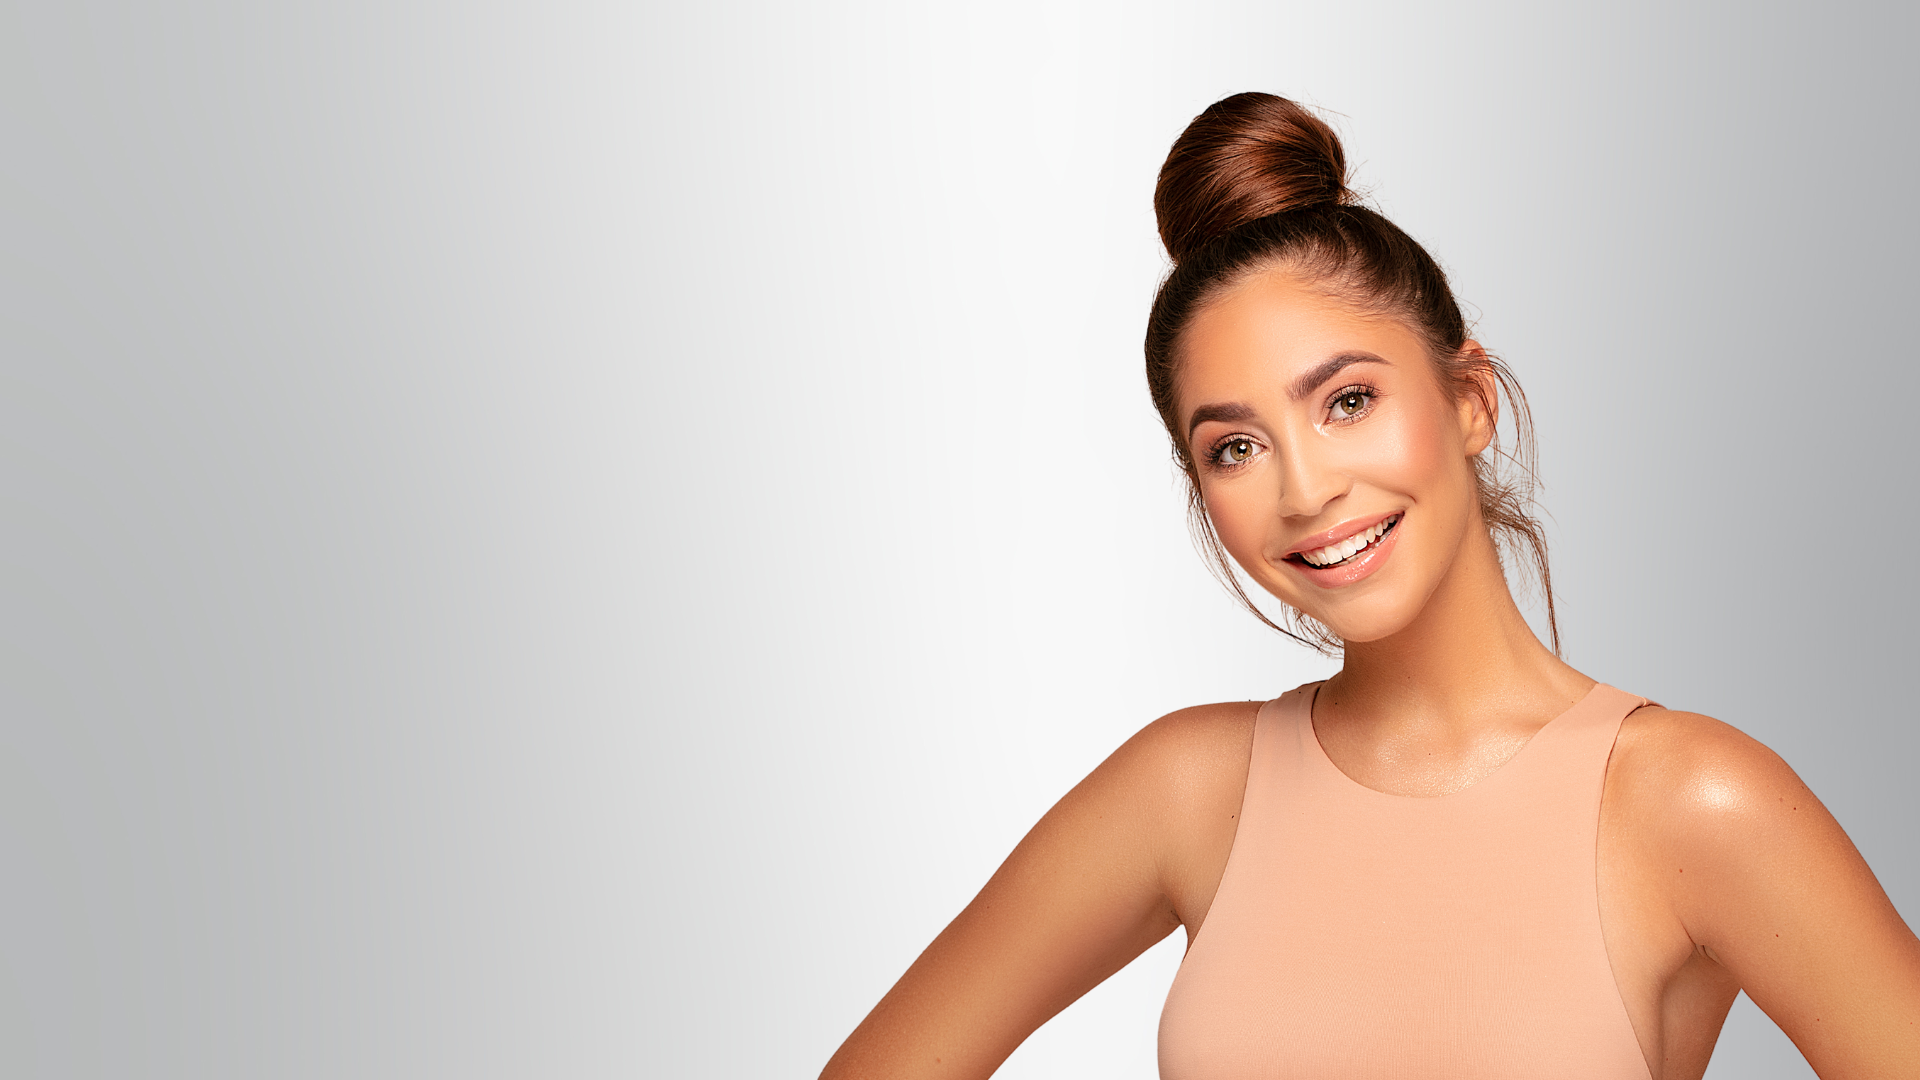
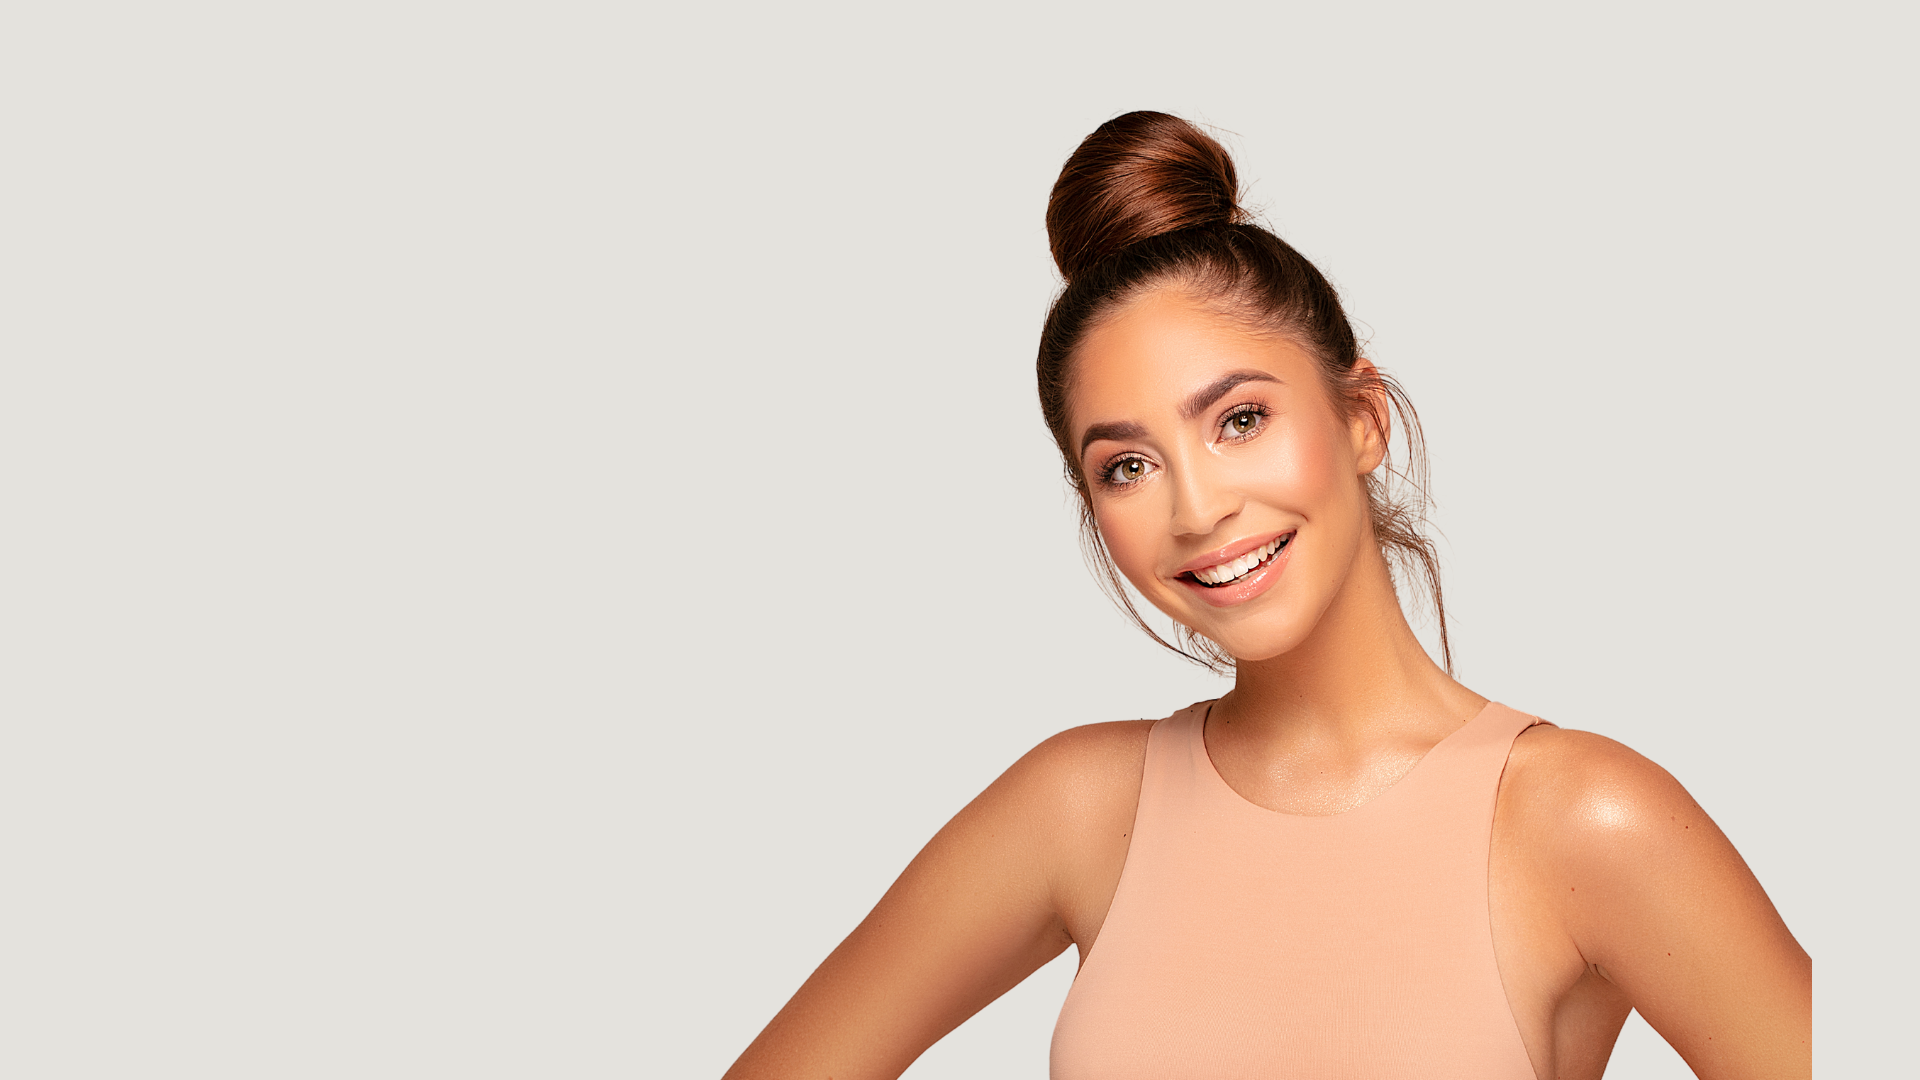
photo added

diff --git a/index.html b/index.html
@@ -53,11 +53,11 @@
       </nav>
 
   <div id ="header">
-    <img src = "images/2.png">
+    <img src = "images/backgroundimage.png">
                 <div class ="header-text first-page">
-                <h1>WELCOME</h1>
+                <h1>WELCOME to <br>AgeFix</h1>
 <br>
-                     <h3>to AgeFix ....your heaven for rejuvenation and timeless beauty.
+                     <h3>Your heaven for rejuvenation and timeless beauty.
                       <br> At our aesthetic sanctuary, we blend artistry with expertise to bring
                      <br> you personalized Anti Wrinkle Injections  and Skin Booster treatments.
                       <br> Step into a realm where your natural radiance is our priority.
@@ -69,8 +69,8 @@
   </div>
 
   <div class ="header-punchline">
-    <h3>AgeFix ....your heaven for rejuvenation and timeless beauty.
-      <br> At our aesthetic sanctuary, we blend artistry with expertise to bring you personalized Anti Wrinkle Injections  and Skin Booster treatments.
+    <h3>Your heaven for rejuvenation and timeless beauty.
+      <!-- <br> At our aesthetic sanctuary, we blend artistry with expertise to bring you personalized treatments. -->
       <br> Step into a realm where your natural radiance is our priority.
       <br> Explore our transformative services designed to enhance your beauty and elevate your confidence.
       <br>Trust us to unveil your timeless allure.

diff --git a/face.html b/face.html
@@ -293,7 +293,7 @@ s
             <div class = "column"style="background-color:white">
               <h1>Microneedling</h1>
               <br>
-              <p>Also known as collagen induction therapy, is a cosmetic procedure that involves creating tiny punctures in the top layer of the skin using fine needles. This process triggers the body's natural wound healing processes, resulting in cell turnover and increased collagen and elastin production.</p>
+              <p>Collagen induction therapy creates tiny skin punctures with needles, triggering natural healing, cell turnover, and boosting collagen production.</p>
               <br>
               <br>
               <a href = "Miscroneedling.html">Explore Treatment</a>
@@ -301,13 +301,12 @@ s
             </div>
             <div class = "column">
               <h2>Benefits</h2><br>
-
-
               <li><span>&#10003; </span>Reduces the appearance of fine lines and wrinkles.</li>
               <li><span>&#10003; </span>Improves skin texture and reduces pore size.</li>
               <li><span>&#10003; </span>Helps in the reduction of scars and hyperpigmentation.</li>
               <li><span>&#10003; </span>Enhances skin firmness and elasticity.</li>
              </div>
+          </div>
           </div>
         <div class = "buttonup">
           <a href="#header"><i class="fa-solid fa-angles-up"></i></a>

diff --git a/Miscroneedling.html b/Miscroneedling.html
@@ -255,7 +255,7 @@ margin-left: 10px;
    </div>
   </nav>
 <div id ="header">
-  <img src ="images/antiwrinckle.png">
+  <img src ="images/micronedeling.png">
   <div class ="header-text">
   <h1>Microneedling </h1>
   <h1>Treatment</h1>
@@ -263,8 +263,7 @@ margin-left: 10px;
 </div>
 
 <div class = "punchline">
-  <h2>Microneedling, also known as collagen induction therapy,
-    is a minimally invasive skin rejuvenation procedure. It involves the use of a device equipped with fine needles to create tiny punctures on the top layer of the skin. This process triggers the body's natural wound healing processes, resulting in cell turnover and increased collagen and elastin production. These effects can lead to firmer, smoother, and more toned skin.
+  <h2>Collagen induction therapy creates tiny skin punctures with needles, triggering natural healing, cell turnover, and boosting collagen production.
   </h2>
 </div>
 

diff --git a/hair Loss.html b/hair Loss.html
@@ -254,7 +254,7 @@ padding:10px;
    </div>
   </nav>
 <div id ="header">
-  <img src ="images/antiwrinckle.png">
+  <img src ="images/hairderma.png">
   <div class ="header-text">
   <h1>Hair Loss Dermapen</h1>
   <h1>Treatment</h1>
@@ -406,6 +406,7 @@ the exposed skin, using products like COVER RECOVER™ CLEAR or SHEER.
 
 
 <div class ="priceinfo">
+  <br>
 <p>Prices subject to change due to quantity of serum used</p>
 <p>*See Terms & conditions for more details</p>
 </div>
@@ -417,9 +418,9 @@ the exposed skin, using products like COVER RECOVER™ CLEAR or SHEER.
 </div>
 
 
-<div class ="photo-areas">
+<!-- <div class ="photo-areas">
   <img src ="images/Botoxareas.png">
-</div>
+</div> -->
 
 
 <script>

diff --git a/Profilo.html b/Profilo.html
@@ -205,19 +205,20 @@ select {
 
 
 .column-tretment{
-padding:10px;
+padding:0px;
 }
 
 #tretment-sumary {
-    margin-left: 5%;
-    margin-right: 5%;
+    margin-left: 2px;
+    margin-right: 2px;
   }
+
   .column-tretment {
     padding: 10px;
   }
 
   .table-container  h2{
-margin-left: 10px;
+      margin-left: 10px;
       font-size: 25px;
     }
 
@@ -256,7 +257,7 @@ margin-left: 10px;
    </div>
   </nav>
 <div id ="header">
-  <img src ="images/antiwrinckle.png">
+  <img src ="images/profiloface.png">
   <div class ="header-text">
     <h1>Profhilo &reg; </h1>
     <h1>5 Point Face Lift</h1>

diff --git a/PRPface.html b/PRPface.html
@@ -254,7 +254,7 @@ padding:10px;
    </div>
   </nav>
 <div id ="header">
-  <img src ="images/antiwrinckle.png">
+  <img src ="images/Vampire facial.png">
   <div class ="header-text">
   <h1>PRP (Platelet-Rich Plasma) Vampire Facial</h1>
   <h1>Treatment</h1>
@@ -513,9 +513,9 @@ At AgeFix, we invite you to explore the natural, powerful effects of PRP Therapy
 </div>
 
 
-<div class ="photo-areas">
+<!-- <div class ="photo-areas">
   <img src ="images/Botoxareas.png">
-</div>
+</div> -->
 
 
 <script>

diff --git a/Strech Marks Dermapen.html b/Strech Marks Dermapen.html
@@ -254,7 +254,7 @@ padding:10px;
    </div>
   </nav>
 <div id ="header">
-  <img src ="images/antiwrinckle.png">
+  <img src ="images/streckmarks.png">
   <div class ="header-text">
   <h1>Strech Marks</h1>
   <h1>DERMAPEN</h1>
@@ -427,9 +427,9 @@ For optimal results:, we recommend using the Dermapen HOME™ for safe, at-home 
 </div>
 
 
-<div class ="photo-areas">
+<!-- <div class ="photo-areas">
   <img src ="images/Botoxareas.png">
-</div>
+</div> -->
 
 
 <script>

diff --git a/Hands Rejuvenation .html b/Hands Rejuvenation .html
@@ -254,7 +254,7 @@ padding:10px;
    </div>
   </nav>
 <div id ="header">
-  <img src ="images/antiwrinckle.png">
+  <img src ="images/hands.png">
   <div class ="header-text">
   <h1>Hands Rejuvenation  booster Profhilo®</h1>
   <h1>Treatment</h1>
@@ -401,9 +401,9 @@ padding:10px;
 </div>
 
 
-<div class ="photo-areas">
+<!-- <!-- <div class ="photo-areas">
   <img src ="images/Botoxareas.png">
-</div>
+</div> --> -->
 
 
 <script>

diff --git a/BunnyLines.html b/BunnyLines.html
@@ -254,7 +254,7 @@ padding:10px;
    </div>
   </nav>
 <div id ="header">
-  <img src ="images/antiwrinckle.png">
+  <img src ="images/bunny1.png">
   <div class ="header-text">
   <h1>Bunny Lines</h1>
   <h1>Treatment</h1>
@@ -442,9 +442,9 @@ padding:10px;
 </div>
 
 
-<div class ="photo-areas">
-  <img src ="images/Botoxareas.png">
-</div>
+<!-- <div class ="photo-areas">
+  <img src ="images/bunny2.png">
+</div> -->
 
 
 <script>

diff --git a/Masseter.html b/Masseter.html
@@ -254,7 +254,7 @@ padding:10px;
    </div>
   </nav>
 <div id ="header">
-  <img src ="images/antiwrinckle.png">
+  <img src ="images/jawline.png">
   <div class ="header-text">
   <h1>Masseter Reduction - Jawline Slimming</h1>
   <h1>Treatment</h1>
@@ -439,9 +439,9 @@ padding:10px;
 </div>
 
 
-<div class ="photo-areas">
+<!-- <div class ="photo-areas">
   <img src ="images/Botoxareas.png">
-</div>
+</div> -->
 
 
 <script>

diff --git a/Lumi eyes.html b/Lumi eyes.html
@@ -256,7 +256,7 @@ margin-left: 10px;
    </div>
   </nav>
 <div id ="header">
-  <img src ="images/antiwrinckle.png">
+  <img src ="images/lumieyes.png">
   <div class ="header-text">
   <h1>Lumi eyes by Dermaren</h1>
   <h1>Treatment</h1>
@@ -436,9 +436,9 @@ margin-left: 10px;
 </div>
 
 
-<div class ="photo-areas">
+<!-- <div class ="photo-areas">
   <img src ="images/Botoxareas.png">
-</div>
+</div> -->
 
 
 <script>

diff --git a/Sad Mouth.html b/Sad Mouth.html
@@ -254,7 +254,7 @@ padding:10px;
    </div>
   </nav>
 <div id ="header">
-  <img src ="images/antiwrinckle.png">
+  <img src ="images/sadmouth.png">
   <div class ="header-text">
   <h1>Facial DAO Muscles (Sad Mouth)</h1>
   <h1>Treatment</h1>
@@ -445,9 +445,9 @@ padding:10px;
 </div>
 
 
-<div class ="photo-areas">
+<!-- <div class ="photo-areas">
   <img src ="images/Botoxareas.png">
-</div>
+</div> -->
 
 
 <script>
